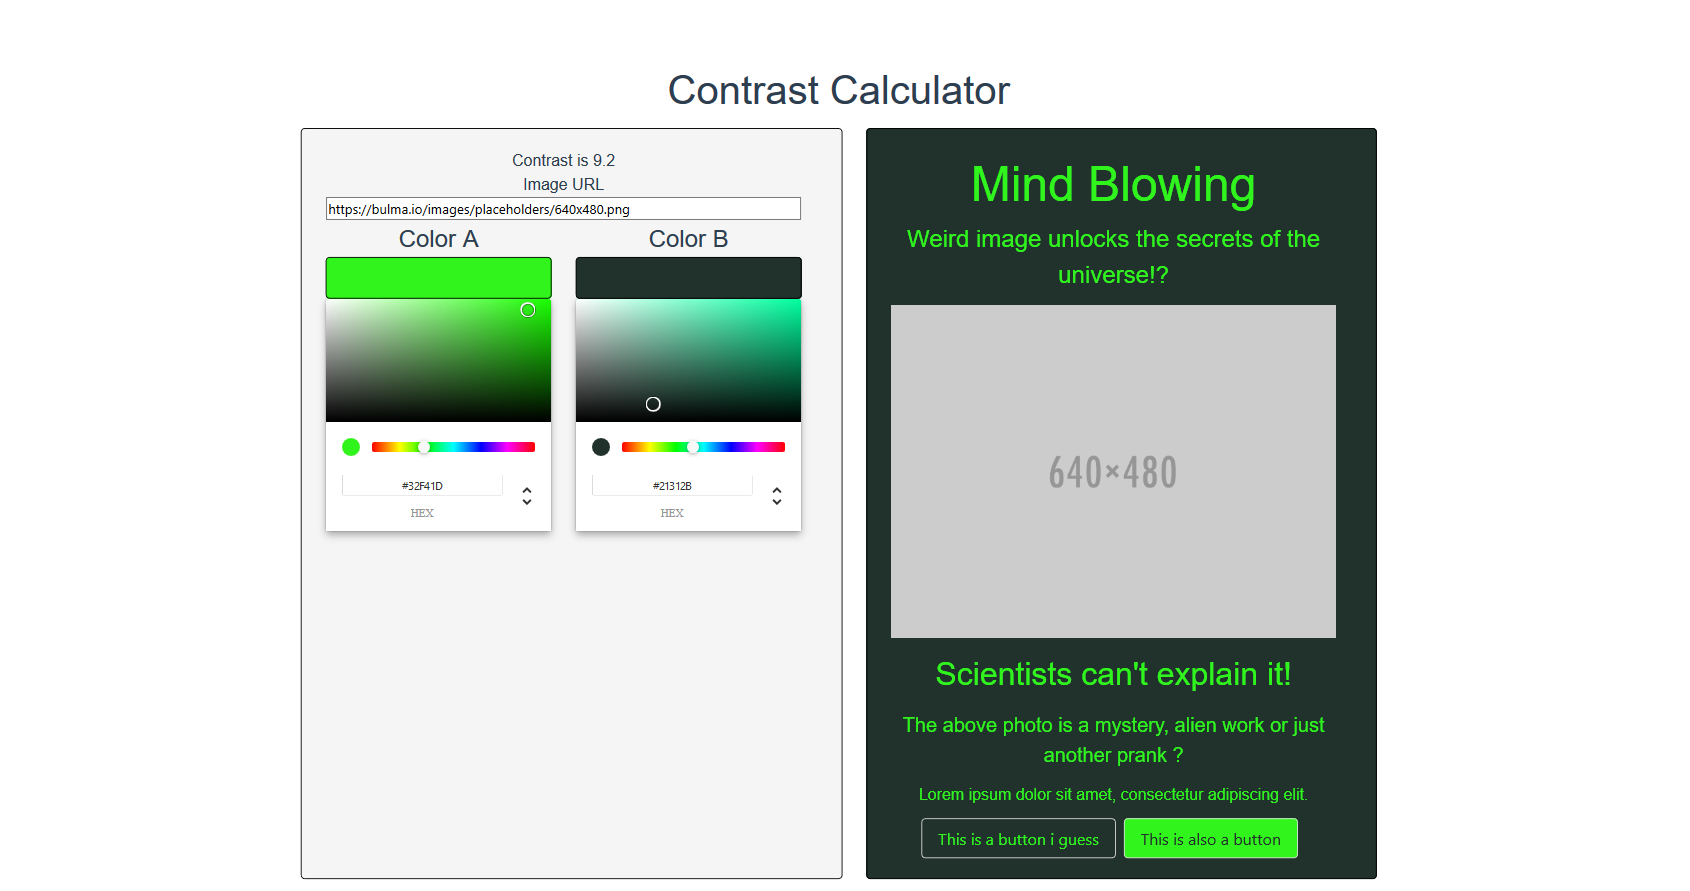
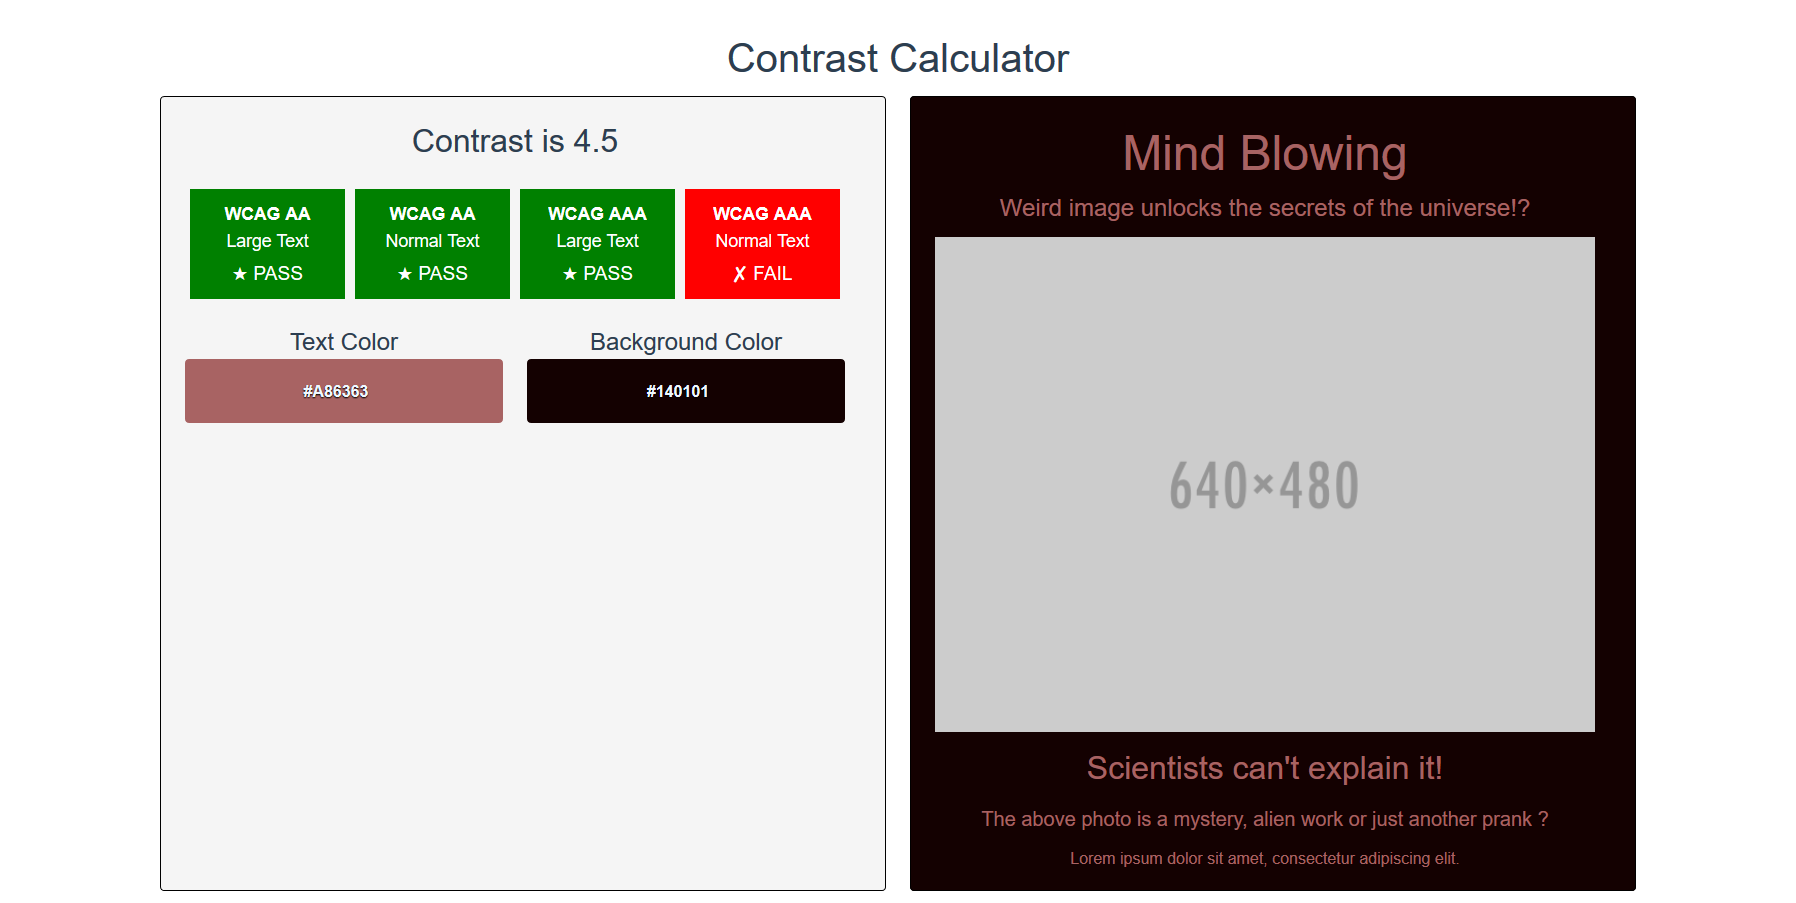
removed unused features and updated preview image

diff --git a/src/components/PreviewCard.vue b/src/components/PreviewCard.vue
@@ -22,14 +22,7 @@
               <p
                 :style="{color: `${colorA}`}"
               >Lorem ipsum dolor sit amet, consectetur adipiscing elit.</p>
-              <button
-                :style="{color: `${colorA}`, backgroundColor: `${colorB}`}"
-                class="button mt-3"
-              >This is a button i guess</button>
-              <button
-                :style="{color: `${colorB}`, backgroundColor: `${colorA}`}"
-                class="button mt-3 mx-2"
-              >This is also a button</button>
+
             </article>
 </template>
 

diff --git a/src/views/ContrastCalculator.vue b/src/views/ContrastCalculator.vue
@@ -8,9 +8,6 @@
             <article class="tile is-child notification">
               <contrast-rating-card :contrast="contrast" />
 
-              <label for="text">Image URL</label>
-              <input class="settings__url" type="text" v-model="imageUrl" />
-
               <div class="columns is-desktop">
                 <div class="column">
                   <h3 class="is-size-4">Text Color</h3>
